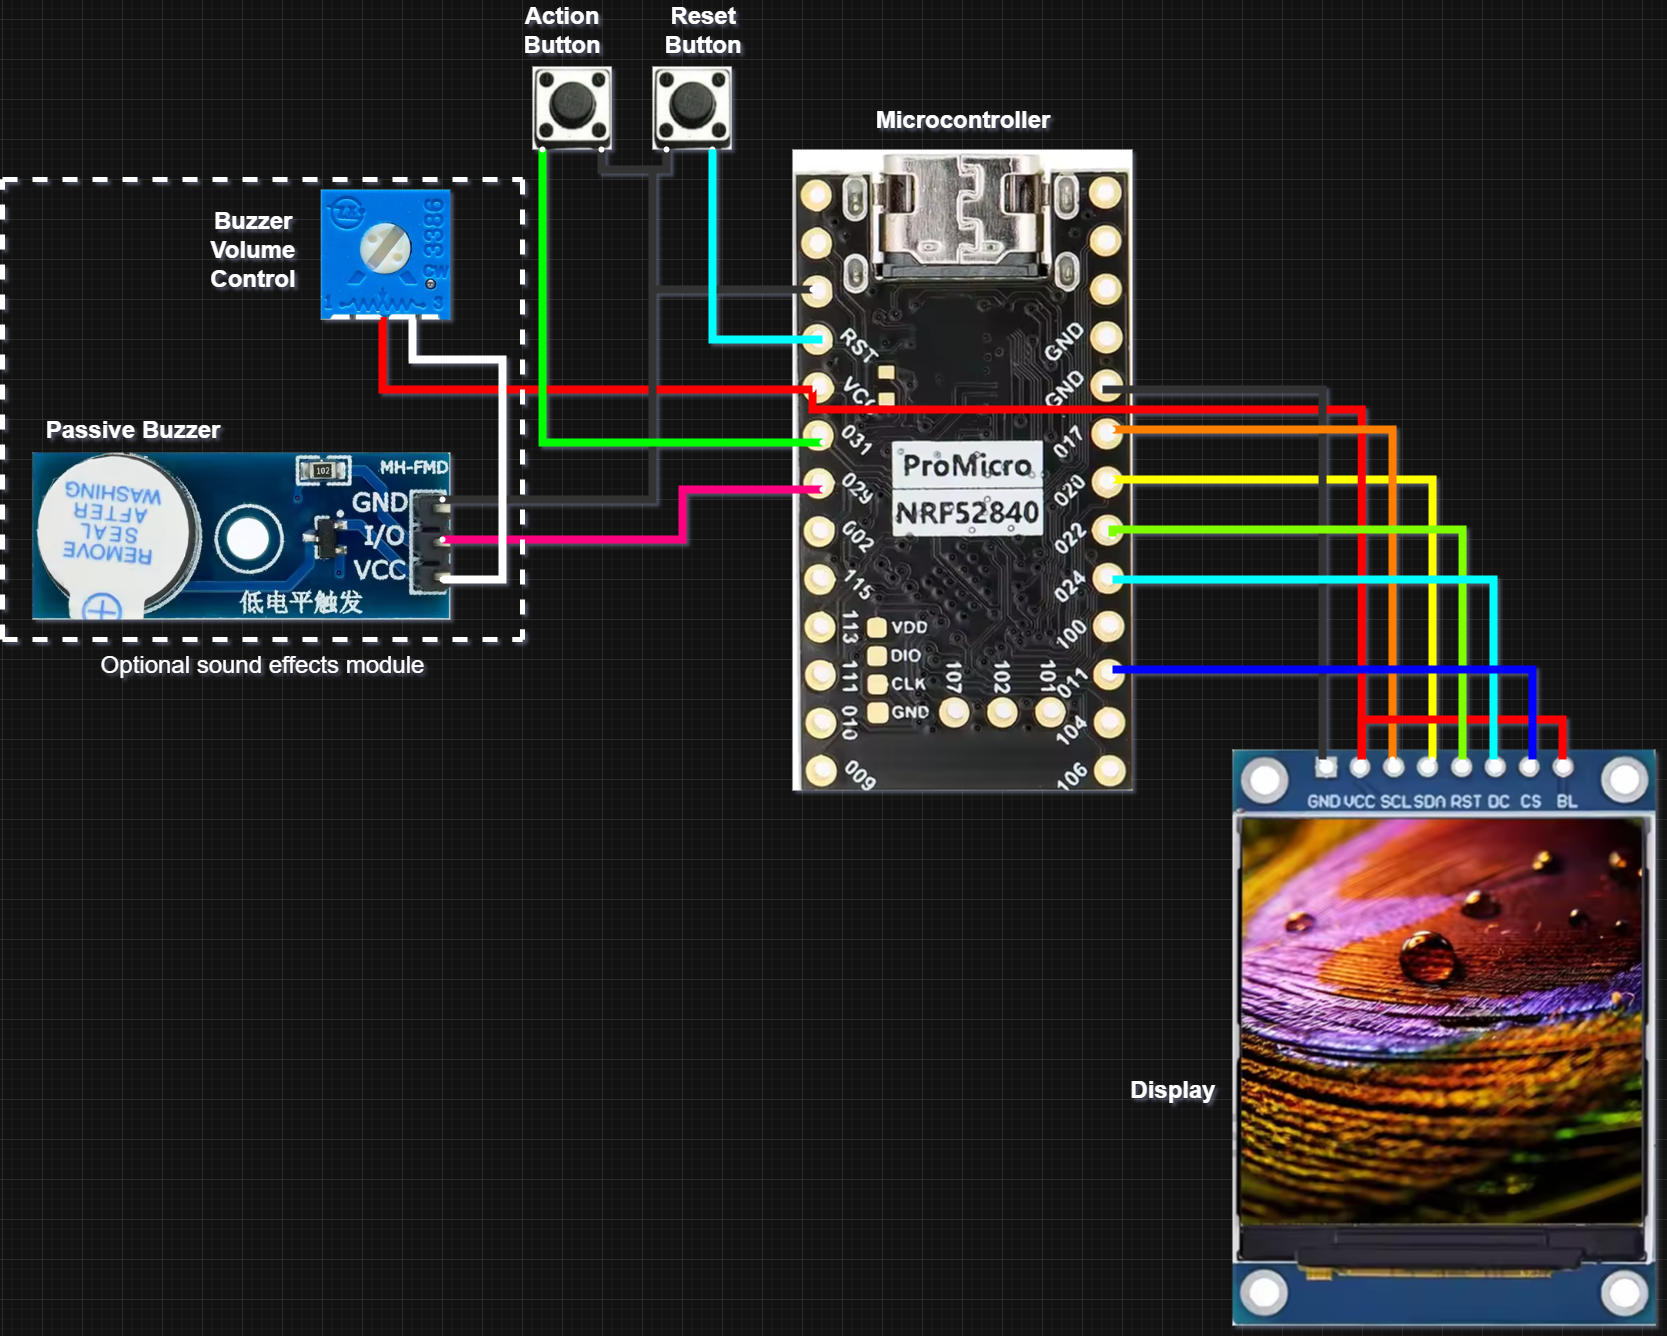
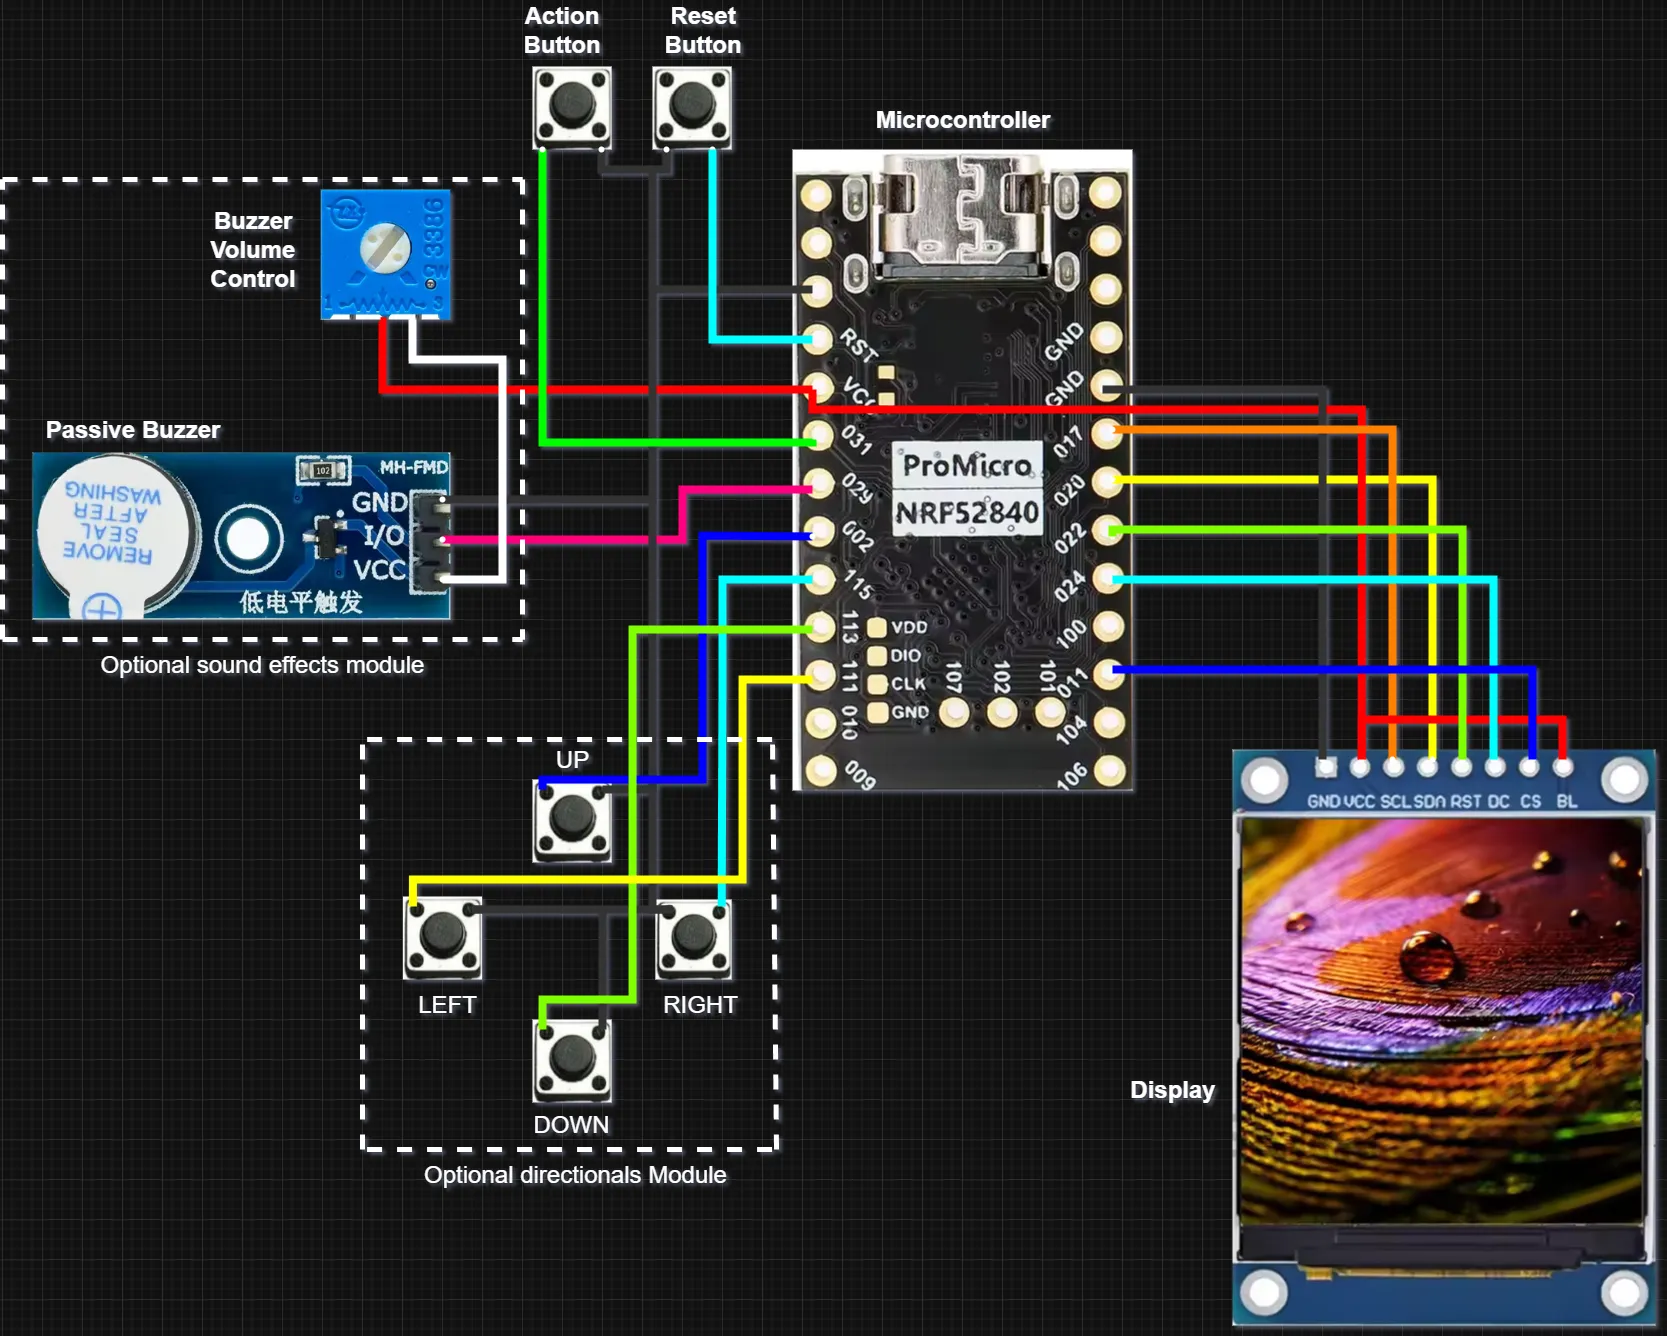
Add directional buttons

diff --git a/README.md b/README.md
@@ -246,7 +246,7 @@ manifest:
       import: app/west.yml
     - name: snake-module                          # <--- and these
       remote: joaopedropio                        # <---
-      revision: master                            # <---
+      revision: directionals                      # <---
   self:
     path: config
 ```
@@ -301,6 +301,9 @@ For more information on ZMK Modules and building locally, see [the ZMK docs page
 | `CONFIG_USE_COMPLETE_CUSTOM_THEME` | y or n | n | Enable using basic theme or complete theme on custom theme slot. If `n`, the `CONFIG_THEME_[COLOR TYPE]_COLOR` variables will be used as theme. If `y`, all the variables bellow "complete theme settings" comment on the [file](#example-configuration-file-) bellow will be used as theme. |
 | `CONFIG_USE_BATTERY_FONT_3X5` | y or n | n | Use 3x5 font on battery section. The default battery font is 5x8. |
 | `CONFIG_SHOW_SINGLE_BATTERY` | y or n | n | Show just the first binded peripheral battery level. Helpful in case of a single peripheral keyboard. |
+| `IDLE_THRESHOLD` | Any number above 0 | 500 | Number of cycles with any directional input |
+| `MANUAL_CYCLE_THRESHOLD` | Any number above 0 | 16 | Number of cycles between every refresh rate of the manual snake. |
+| `MANUAL_CYCLE_PRESSED_THRESHOLD` | Any number above 0 | 8 | Number of cycles between every refresh rate of the manual snake whilst directional is pressing. |
 
 ## Configuration examples [🔼](#contents)
 
@@ -347,6 +350,12 @@ CONFIG_WPM_FAST=80
 # default: 80
 CONFIG_WPM_SUPER_FAST=90
 # default: 90
+CONFIG_IDLE_THRESHOLD=500
+# default: 500
+CONFIG_MANUAL_CYCLE_THRESHOLD=16
+# default: 16
+CONFIG_MANUAL_CYCLE_PRESSED_THRESHOLD=8
+# default: 8
 
 # configure sound
 CONFIG_USE_BUZZER=y
@@ -516,6 +525,8 @@ CONFIG_MODIFIER_BG_COLOR="#212121"
 
 ### Optional Materials [🔼](#contents)
 
+#### Sound module
+
 <table>
     <tr>
         <th>Image</th>
@@ -544,6 +555,18 @@ CONFIG_MODIFIER_BG_COLOR="#212121"
         <td>1x</td>
         <td><a href="https://pt.aliexpress.com/item/1005006157105408.html">aliexpress</a></td>
         <td>Any kind of resistor/potentiometer will do. This allows you to control buzzer volume. Not required. Without one, the volume will be always 100%.</td>
+    </tr>
+</table>
+
+#### Directional module
+
+<table>
+    <tr>
+        <td><a href="https://github.com/joaopedropio/snake-dongle/blob/master/images/bom/button.webp"><img src="images/bom/button_thumb.webp" alt="button" style="width:200px;"/></a></td>
+        <td>4 Pin 6x6x8 Push Button</td>
+        <td>6x</td>
+        <td><a href="https://pt.aliexpress.com/item/1005007623070623.html">aliexpress</a></td>
+        <td>todo (decide wich type of button to use with the gameboy case.</td>
     </tr>
 </table>
 
